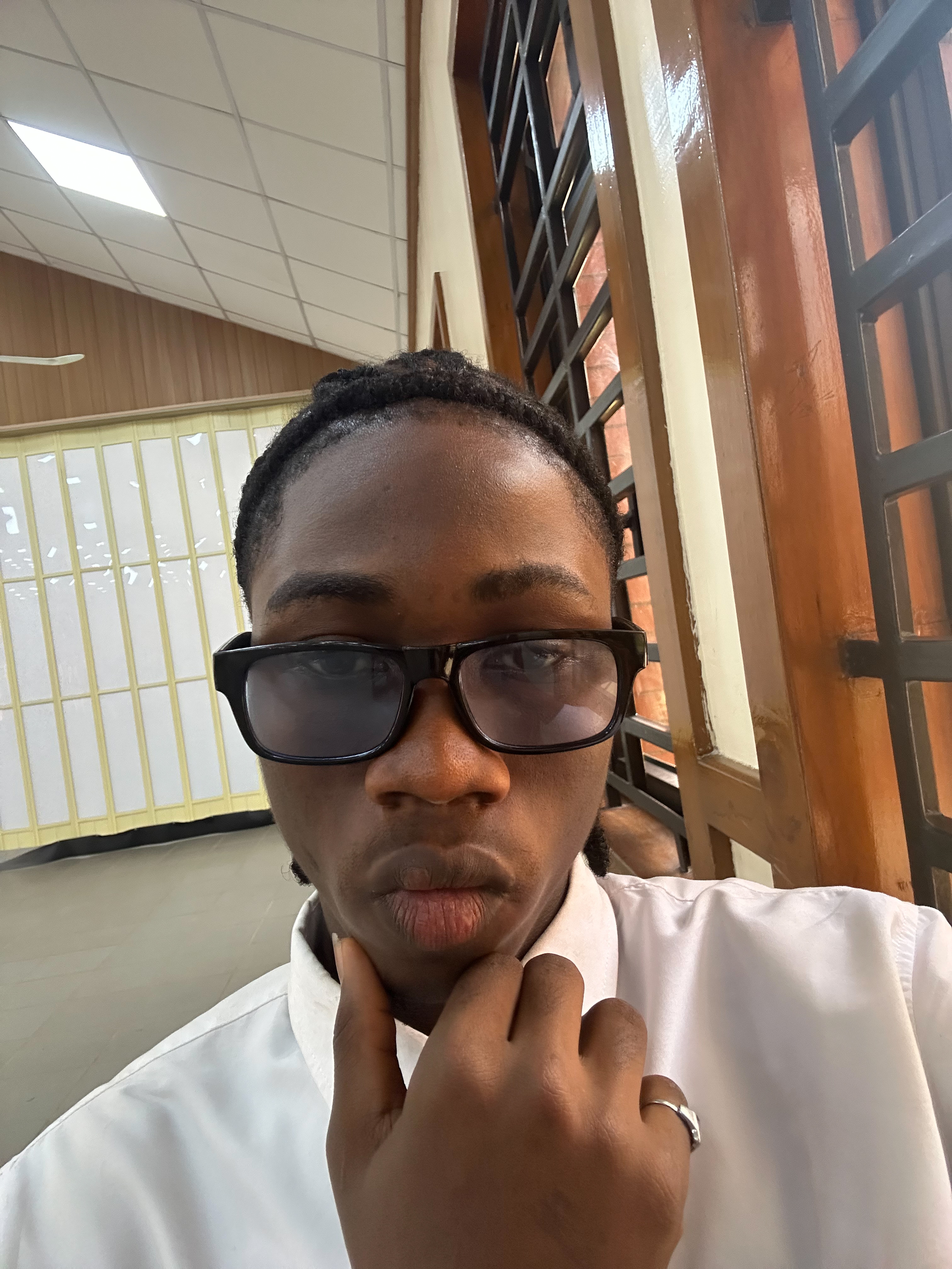
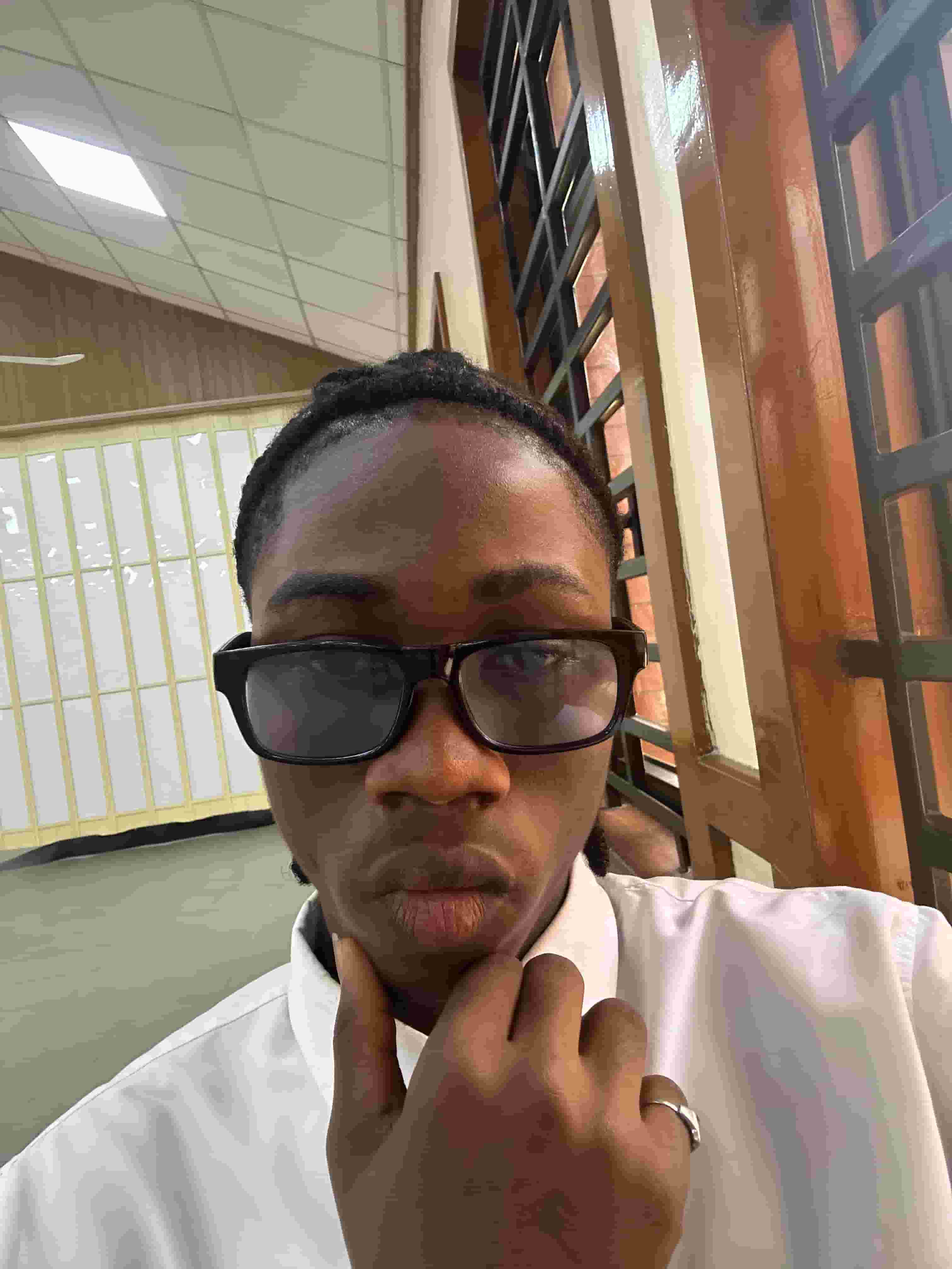
fixed my css and profile name

diff --git a/styles/styles.css b/styles/styles.css
@@ -15,6 +15,7 @@ nav a {
     color: white;
     padding: 1rem;
     text-decoration: none;
+    display: block;
 }
 
 /* Main content */
@@ -22,6 +23,11 @@ main {
     max-width: 840px;
     margin: 0 auto;
     padding: 1rem;
+}
+
+/* Main heading */
+h1 {
+    color: #333;
 }
 
 main img {
